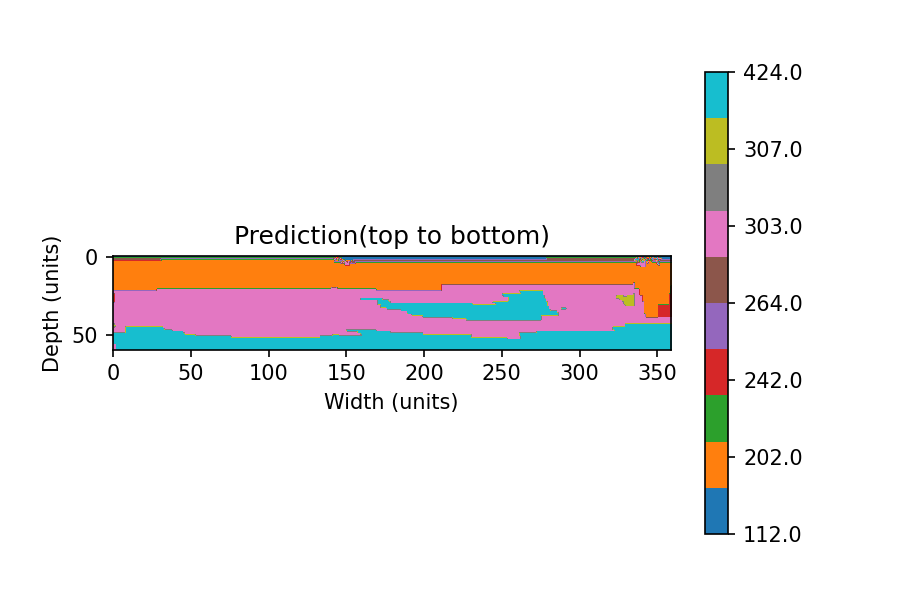
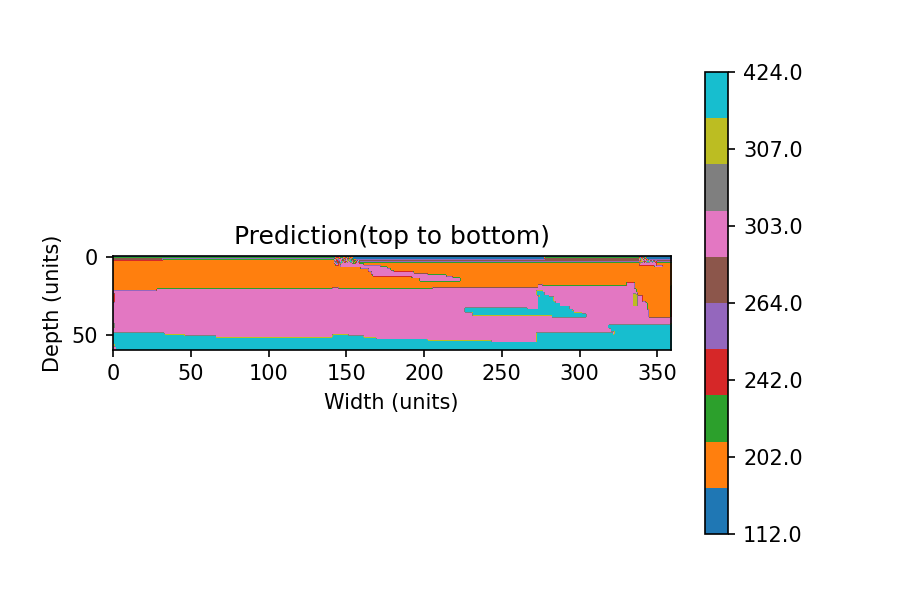
修改圖片規格

diff --git a/Irregular_section.py b/Irregular_section.py
@@ -3,6 +3,8 @@ import pandas as pd
 import operator as op
 import matplotlib.pyplot as plt
 from collections import Counter
+import matplotlib.pyplot as plt
+import matplotlib.patches as mpatches
 
 # -----------testing file----------------
 Matrix4D = "test.csv"
@@ -234,19 +236,56 @@ print('predict_result_entire:\n',predict_result_entire)
 
 
 # 可視化地質類型分布
-plt.figure(figsize=(6, 4), dpi=150)
-plt.imshow(predict_result_entire, cmap='tab10', origin='upper')
-cbar = plt.colorbar()
-# 獲取mapping所有key
 mapping_key = list(mapping.keys())
 mapping_value = list(mapping.values())
 print('mapping_key:',mapping_key)
 print('mapping_value:',mapping_value)
-cbar.set_ticks(mapping_value)  # 設置顏色條刻度
-cbar.set_ticklabels(mapping_key)  # 設置顏色條標籤
-plt.title('Prediction(top to bottom)')
+original_ticks = np.arange(0, int(Hole_distance.max() / interval), 100)
+# 缩放后的 x 轴刻度标签
+scaled_labels = (original_ticks * interval).astype(int)
+plt.figure(figsize=(8, 4), dpi=150)  # 调整宽度以适应图例
+im = plt.imshow(predict_result_entire, cmap='tab10', origin='upper', aspect='auto')
+colors = plt.cm.tab10(range(len(mapping_value)))  # 颜色列表，与地质类型数量匹配
+patches = [mpatches.Patch(color=colors[i], label=f"Type {int(mapping_key[i])}") for i in range(len(mapping_key))]
+
+plt.legend(
+    handles=patches,
+    loc='center left',  
+    bbox_to_anchor=(1.05, 0.5), 
+    title="Geological Types",
+    fontsize=8,
+    title_fontsize=10,
+    frameon=True
+)
+# 根據鑽孔位置畫出垂直線
+for i in HoleLocation_entire:
+    print(i)
+    plt.axvline(x=i, color='black', linestyle='--', linewidth=0.5)
+    plt.axvline(x=i-interval, color='black', linestyle='--', linewidth=0.5)
+
+
+plt.xticks(
+    ticks=original_ticks,  # 原始位置
+    labels=scaled_labels,  # 缩放后的标签
+    fontsize=10
+)
+plt.yticks(
+    ticks=np.arange(0, D, 50),
+    labels=np.arange(0, D, 50),
+    fontsize=10
+)
+plt.gca().set_aspect('auto')
+
+# 限制 x 轴范围
+plt.xlim(0, W)  # 从 0 到 W（宽度范围）
+
+# 限制 y 轴范围
+plt.ylim(D,0)  # 从 0 到 D（深度范围）
+
+plt.tight_layout(rect=[0, 0, 0.9, 1])
+plt.title('Prediction (top to bottom)')
 plt.xlabel('Width (units)')
 plt.ylabel('Depth (units)')
-plt.savefig('Prediction(top to bottom).png')
+plt.tight_layout() 
+plt.savefig('Prediction_with_legend_side.png')
 plt.show()
-plt.clf()
